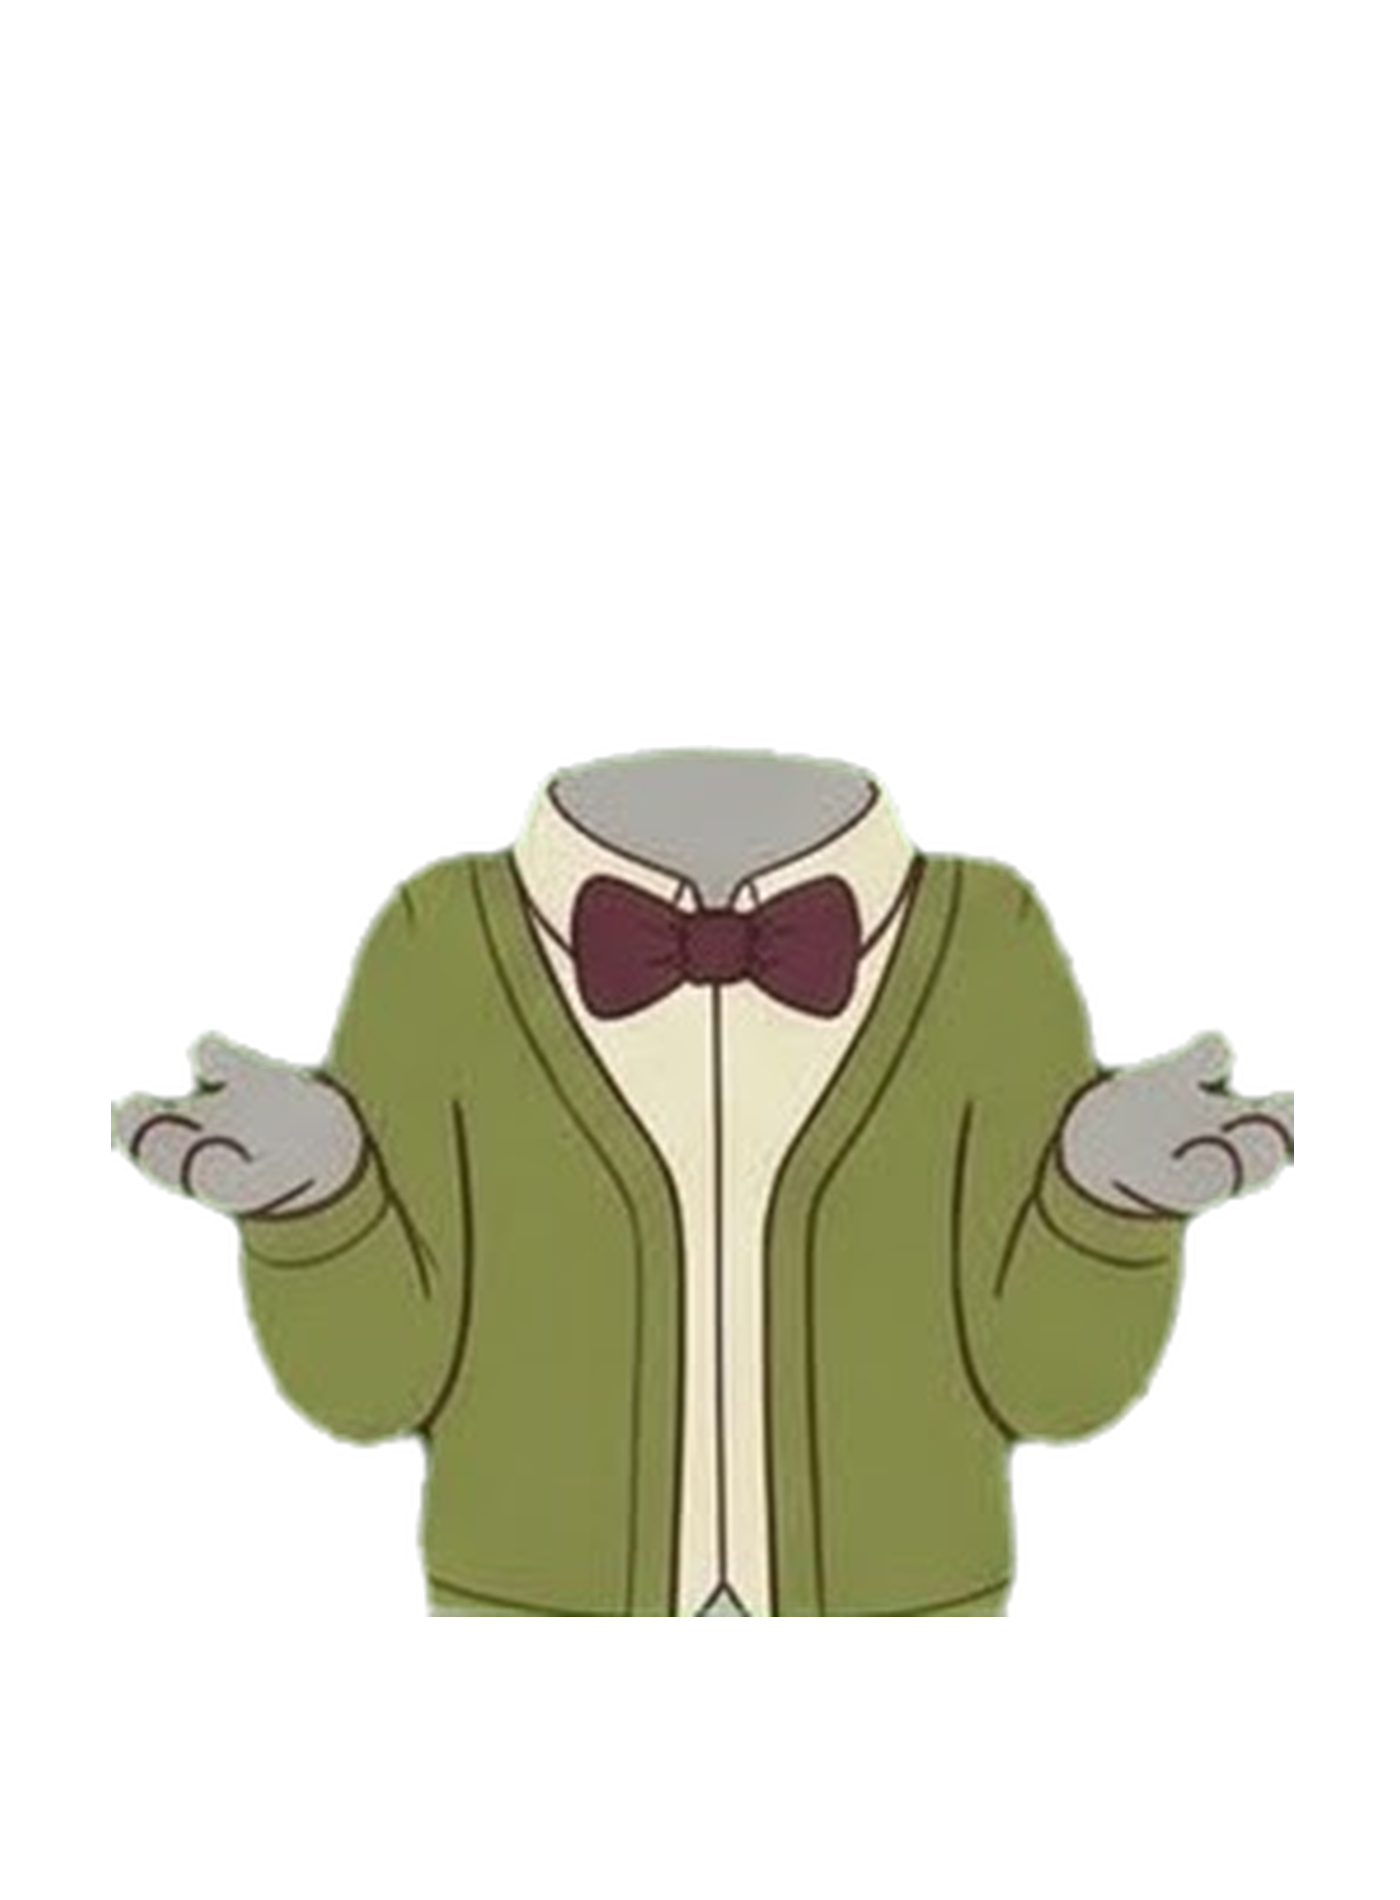
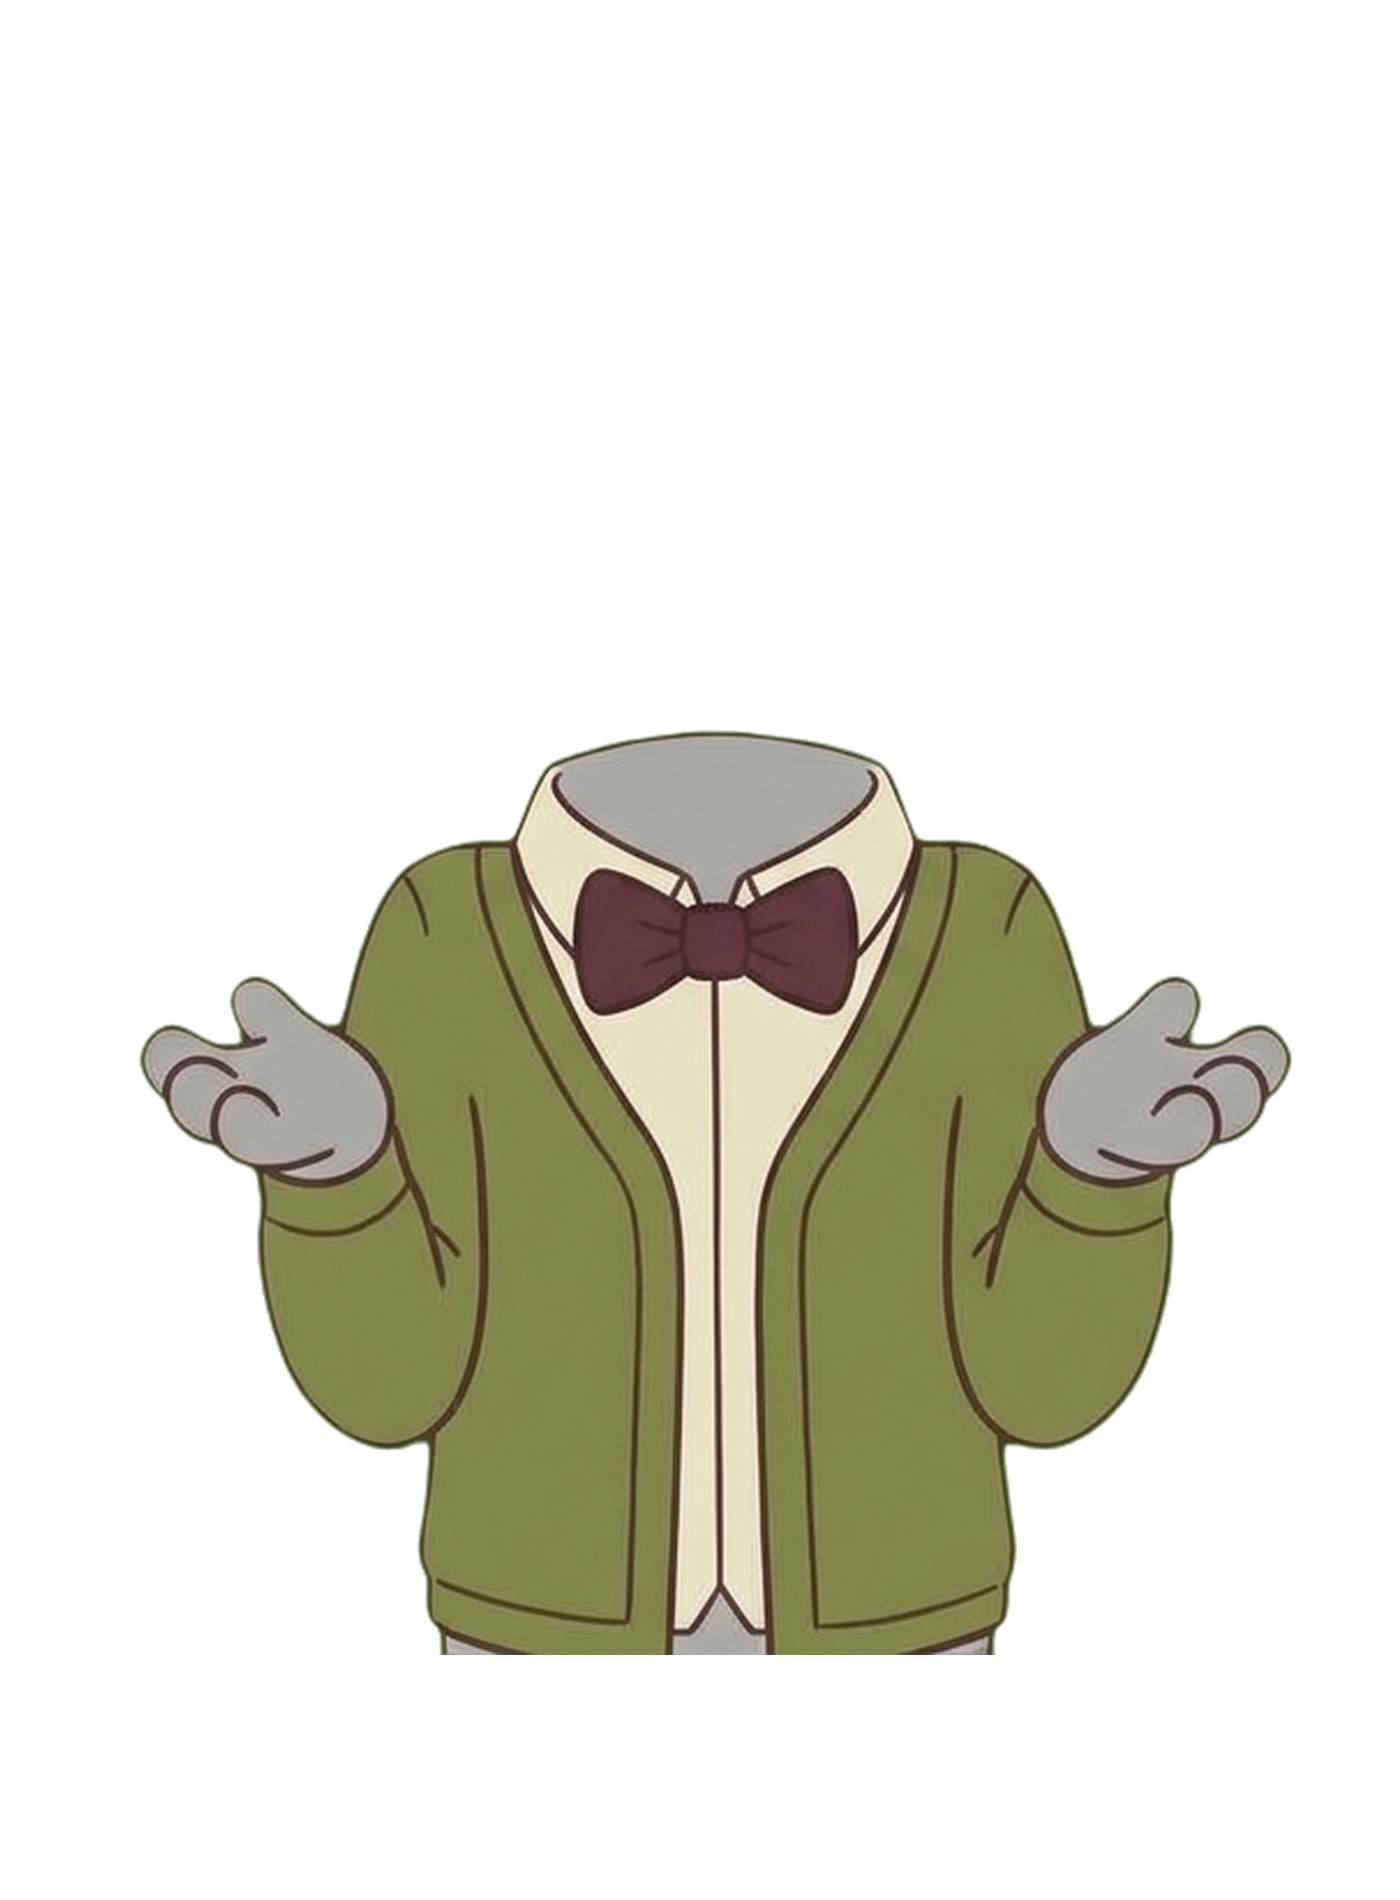
Cuerpos v4 HD: hoja B 2x2 (point_right, explain, shrug, hand_on_chin con pajarita estimada)
Claude-Session: https://claude.ai/code/session_01NybaBEBQ36CdbDeKLNGsjf

Changed region(s): [[0.0614, 0.3726, 0.9214, 0.8695]]

diff --git a/factory/mascot/v4/parts_body_hd.py b/factory/mascot/v4/parts_body_hd.py
@@ -11,19 +11,22 @@ sys.path.insert(0, V3); sys.path.insert(0, D)
 import parts as P
 from parts_body import bow_box, CANVAS, HEAD_AT
 
-SHEETS = [("sheet_cuerpo_A_2x2.png", 2, {0: "stand_front", 1: "arms_crossed", 2: "book", 3: "wave"})]
-INSET = 0.02      # fracción de la celda que se recorta por cada lado (rayas divisorias)
+SHEETS = [("sheet_cuerpo_A_2x2.png", 2, {0: "stand_front", 1: "arms_crossed", 2: "book", 3: "wave"}, 0.02),
+          ("sheet_cuerpo_B_2x2.png", 2, {0: "point_right", 1: "explain", 2: "shrug", 3: "hand_on_chin"}, 0.0)]
+OVERRIDE_BB = {"hand_on_chin": (200, 175, 320, 233)}      # caja de la pajarita en la celda (la pata la tapa: centro bajo el cuello, ancho como en las otras poses)
+# último campo: fracción de la celda que se recorta por cada lado (la hoja A traía rayas divisorias; la B no)
 
 def main():
     base = Image.open(os.path.join(V3, "base.png")).convert("RGBA")
     hb = bow_box(base, (300, 800, 724, 1024)); hcx, hcy, hw = (hb[0] + hb[2]) / 2, (hb[1] + hb[3]) / 2, hb[2] - hb[0]
     thumbs = []
-    for fn, n, poses in SHEETS:
+    for fn, n, poses, INSET in SHEETS:
         S = Image.open(os.path.join(D, fn)).convert("RGB"); cw = S.width / n; ch = S.height / n; m = round(cw * INSET)
         for i, name in poses.items():
             r, c = divmod(i, n)
             cell = S.crop((round(c * cw) + m, round(r * ch) + m, round((c + 1) * cw) - m, round((r + 1) * ch) - m))
             bb = bow_box(cell, (cell.width // 8, 0, cell.width * 7 // 8, int(cell.height * 0.55)))
+            if name in OVERRIDE_BB: bb = OVERRIDE_BB[name]          # pajarita tapada por la pata: se estima desde el cuello
             cell = P.key(cell)
             al = np.asarray(cell.split()[3]) > 40
             lab, k = ndimage.label(al)
@@ -32,6 +35,8 @@ def main():
                 ok = ndimage.binary_dilation(np.isin(lab, keep), iterations=4)
                 arr = np.asarray(cell).copy(); arr[..., 3] = np.where(ok, arr[..., 3], 0); cell = Image.fromarray(arr, "RGBA")
             sc = hw / (bb[2] - bb[0])
+            edge = [int(np.asarray(cell.split()[3])[:, 0].max() > 40), int(np.asarray(cell.split()[3])[:, -1].max() > 40), int(np.asarray(cell.split()[3])[0].max() > 40)]
+            if any(edge): print('  AVISO: toca el borde (izq, der, arriba):', edge)
             p = P.place(cell, sc, ((bb[0] + bb[2]) / 2, (bb[1] + bb[3]) / 2), (hcx + HEAD_AT[0], hcy + HEAD_AT[1]), CANVAS)
             p.save(os.path.join(D, f"body_{name}.png")); print(name, "escala", round(sc, 2), "pajarita", bb, "base del cuerpo", p.split()[3].getbbox())
             t = Image.new("RGBA", CANVAS, (255, 255, 255, 255)); t.alpha_composite(p)
